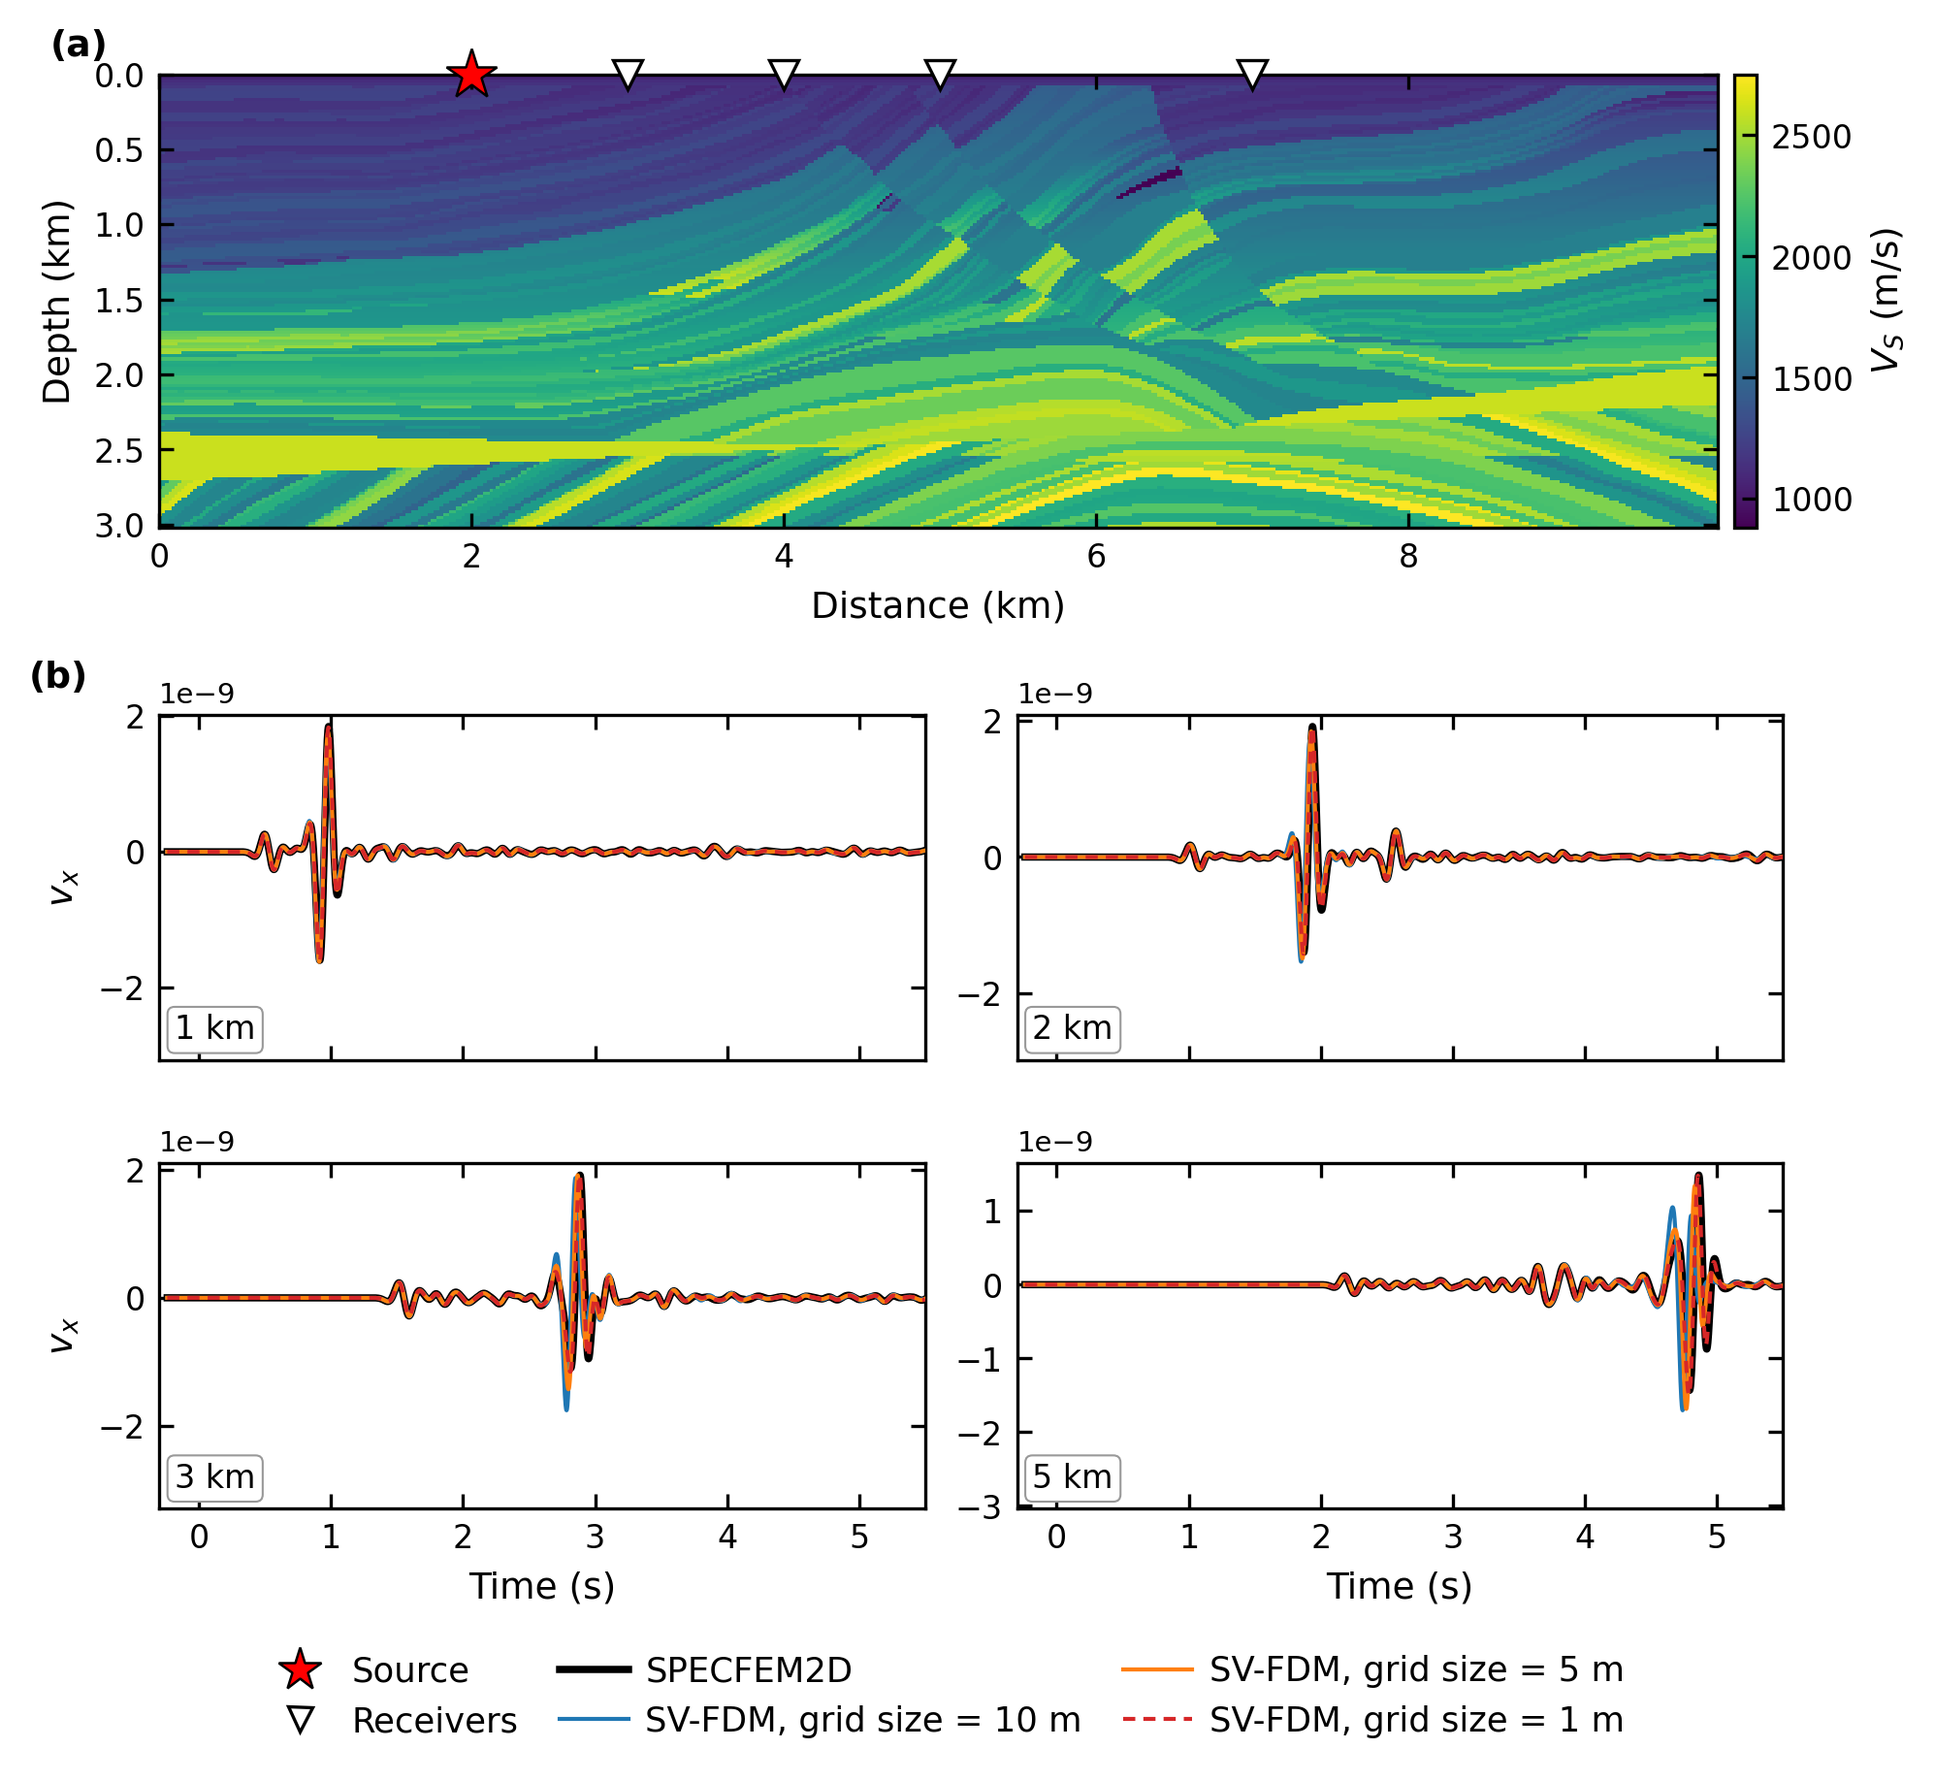
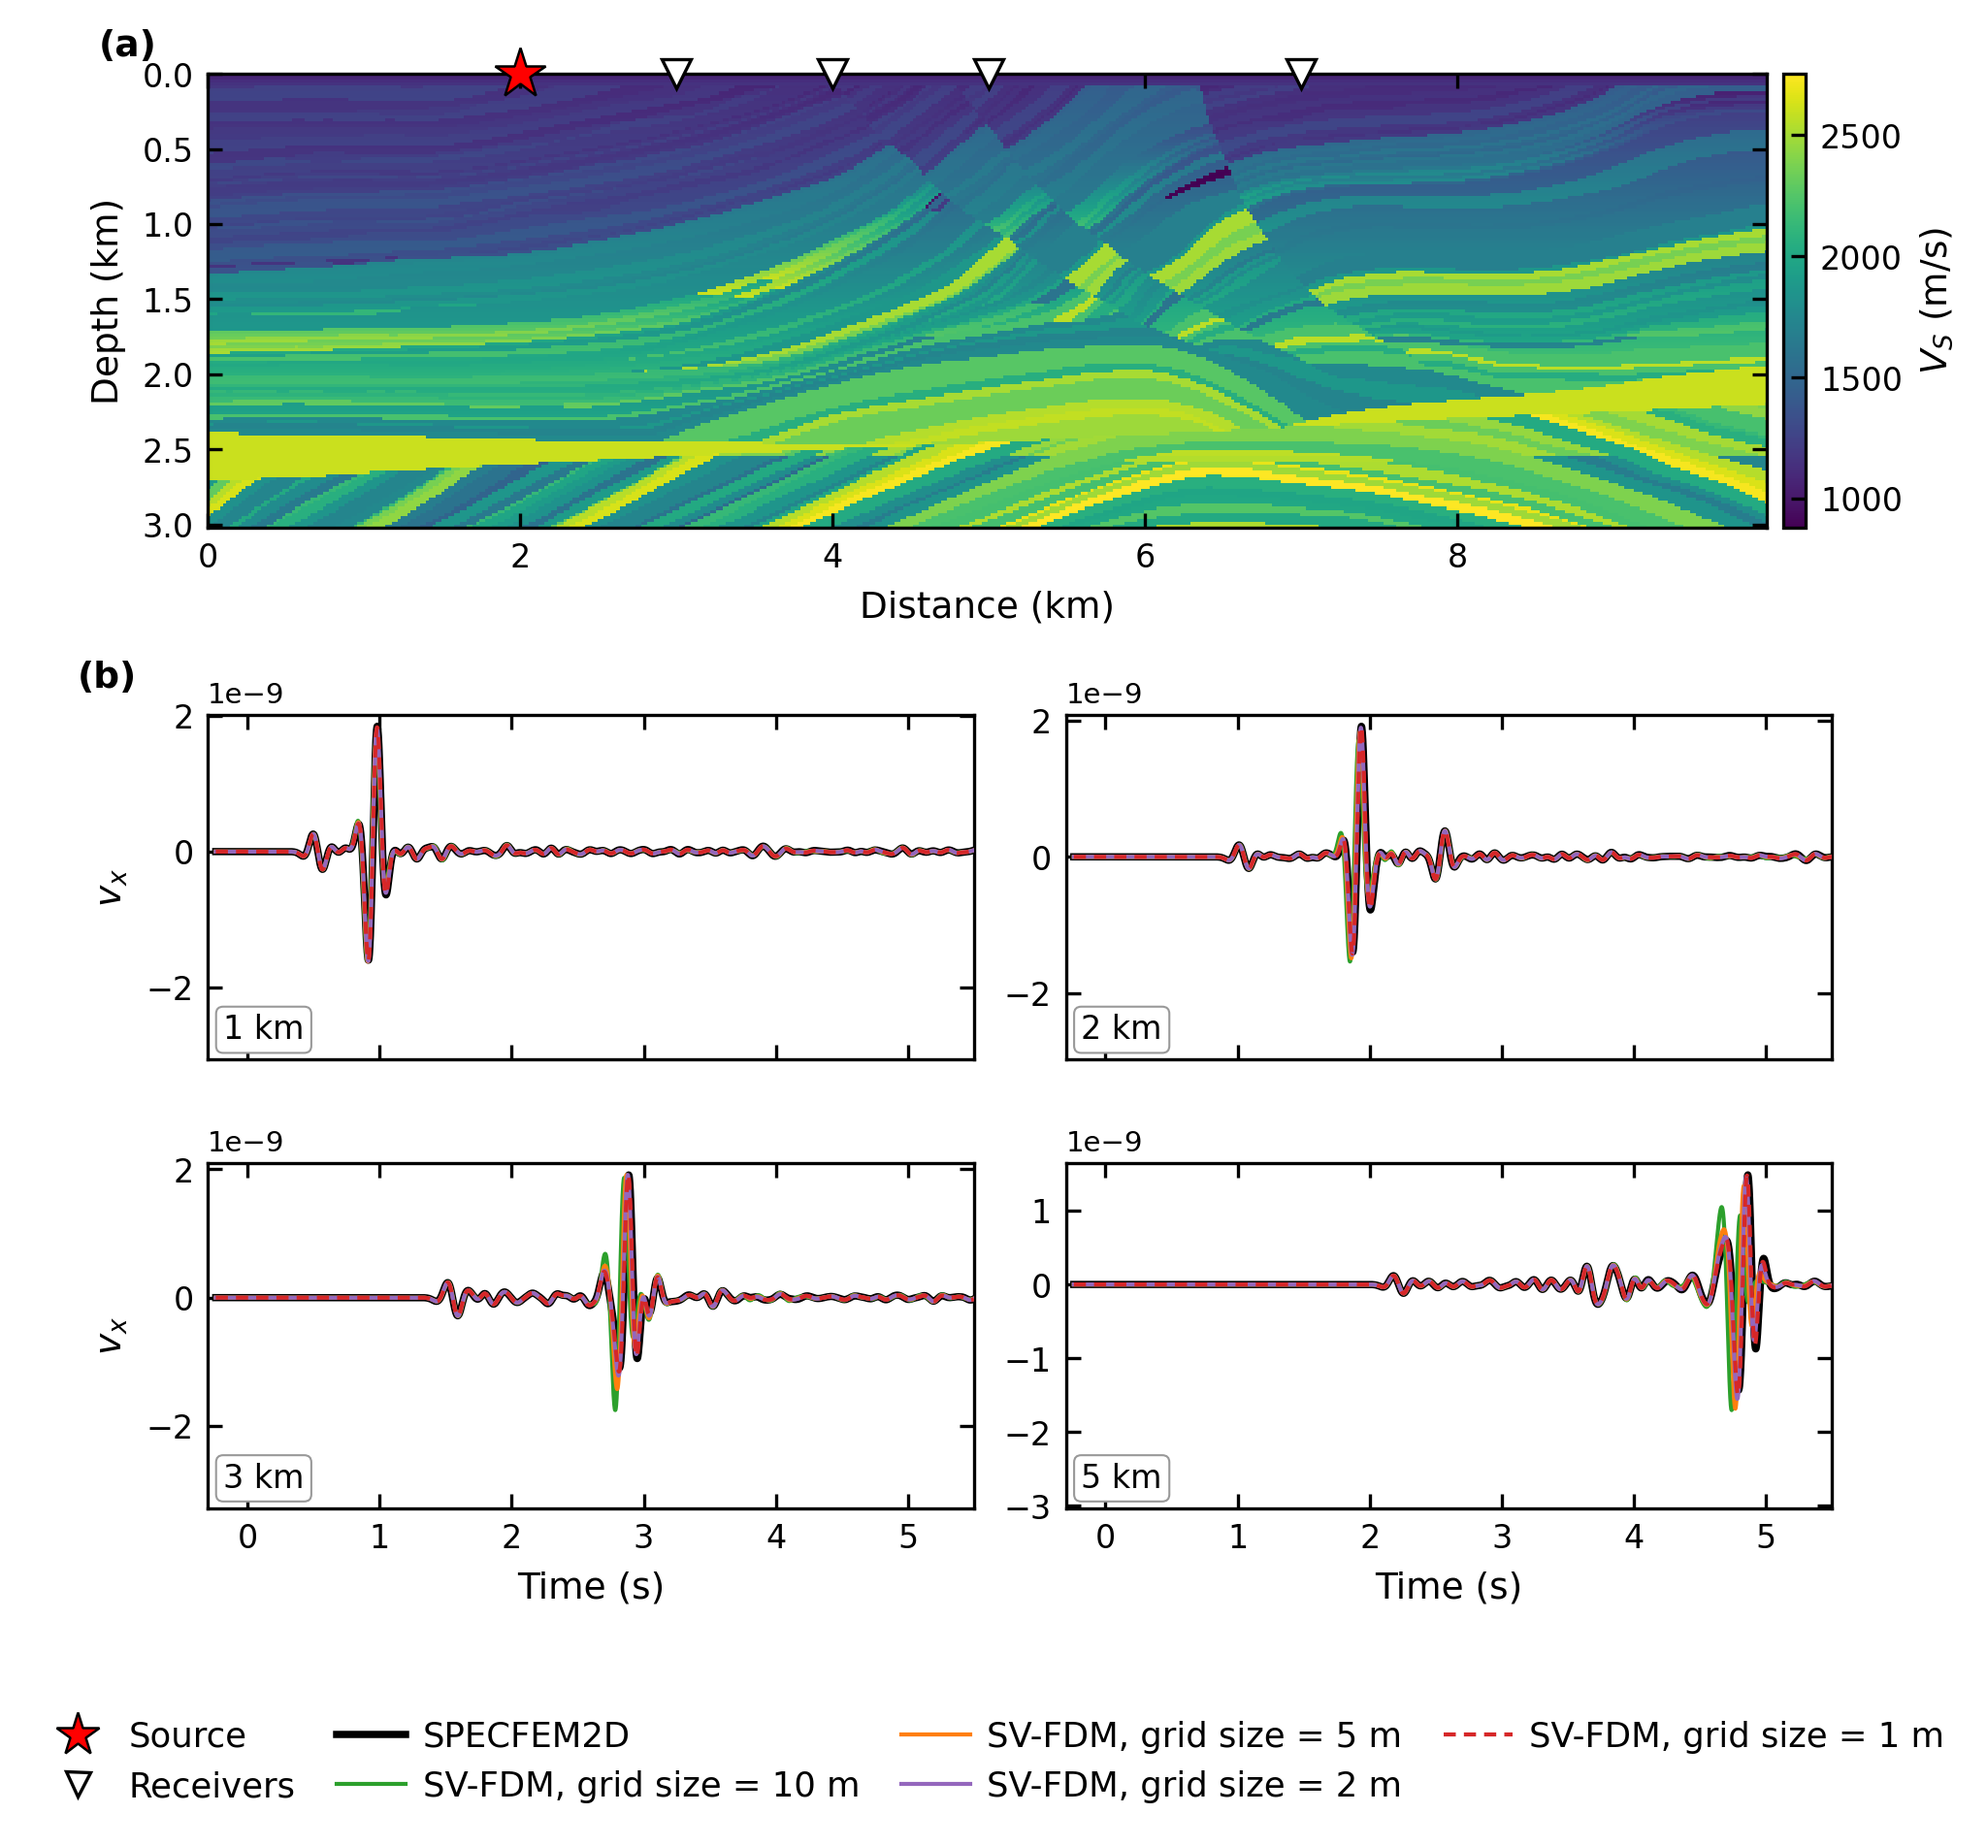
Grid convergence for the half-space; add 2 m grid to both convergence tests
- compare_homogeneous.py: convergence figure against Lamb and SPECFEM2D
  (grid size 10, 5, 2, 1 m), same layout as Marmousi
- common.py: shared grid list and line styles for the convergence figures;
  legend wraps onto two rows when it has many entries
- compare_marmousi.py: add the 2 m grid
- README: four validation cases

diff --git a/validation/compare_homogeneous.py b/validation/compare_homogeneous.py
@@ -12,8 +12,9 @@ common.py).
 Usage:
     CUDA_VISIBLE_DEVICES=0 python compare_homogeneous.py
 
-Writes results/homogeneous_{vz,vx}.png and prints relative RMS errors
-against the analytic solution.
+Writes results/homogeneous_{vz,vx}.png, the same comparison on coarser FD
+grids (CONV_DX) in results/homogeneous_convergence_{vz,vx}.png, and prints
+relative RMS errors against the analytic solution.
 
 The analytic Green's function comes from lamb_2dhalf_surface (Ki-Tae Kim,
 LGPL-3.0, https://github.com/ktkimit/lamb_2dhalf_surface). It is not
@@ -34,8 +35,8 @@ import sys
 
 import numpy as np
 from scipy.integrate import quad
-from common import (COMPONENTS, FC, FD_DX, HALF_SPACE, OUT_DIR, SPECFEM_SIGN,
-                    T_MAX, comparison_figure, fd_gather, load_reference, receiver_index, rel_rms)
+from common import (COMPONENTS, CONV_DX, FC, FD_DX, HALF_SPACE, OUT_DIR, SPECFEM_SIGN,
+                    T_MAX, comparison_figure, conv_style, fd_gather, load_reference, receiver_index, rel_rms)
 
 # ── analytic Lamb solution ──────────────────────────────────────────────────
 
@@ -166,9 +167,11 @@ def lamb_traces(green, fc, offsets, t):
 
 
 def collect(green):
-    """Common time axis and Lamb / SPECFEM / FD traces at OFFSETS."""
+    """Common time axis and Lamb / SPECFEM / FD traces at OFFSETS.
+
+    fd[dx] holds the SV-FDM traces for every grid in CONV_DX.
+    """
     ref = load_reference('homogeneous', FC)
-    fd = fd_gather('homogeneous', FC, ref)
     step = max(1, int(round(LAMB_DT / (ref['t'][1] - ref['t'][0]))))
     t = ref['t'][::step]
     idx = [receiver_index(ref, o) for o in OFFSETS]
@@ -177,7 +180,10 @@ def collect(green):
         lamb=lamb_traces(green, FC, OFFSETS, t),
         spec={c: np.array([SPECFEM_SIGN[c] * ref[c][::step, i] for i in idx])
               for c in COMPONENTS},
-        fd={c: np.array([fd[c][::step, i] for i in idx]) for c in COMPONENTS})
+        fd={dx: {c: np.array([g[c][::step, i] for i in idx])
+                 for c in COMPONENTS}
+            for dx, g in ((dx, fd_gather('homogeneous', FC, ref, dx))
+                          for dx in CONV_DX)})
 
 
 def main():
@@ -190,8 +196,10 @@ def main():
     print(f"{'comp':>4s} {'code':>8s} " +
           ' '.join(f'{o / 1000:>6g}km' for o in OFFSETS))
     for c in COMPONENTS:
-        for code in ('spec', 'fd'):
-            errs = [rel_rms(r[code][c][i], r['lamb'][c][i])
+        rows = [('spec', r['spec'][c])]
+        rows += [(f'fd {dx:g} m', r['fd'][dx][c]) for dx in CONV_DX]
+        for code, traces in rows:
+            errs = [rel_rms(traces[i], r['lamb'][c][i])
                     for i in range(len(OFFSETS))]
             print(f"{c:>4s} {code:>8s} " + ' '.join(f'{e:8.4f}' for e in errs))
 
@@ -201,9 +209,20 @@ def main():
             'homogeneous', r['src_x'], OFFSETS, r['t'],
             [('Analytic (Lamb)', r['lamb'][c], dict(color='k', lw=2.2)),
              ('SPECFEM2D', r['spec'][c], dict(color='tab:blue', lw=1.1)),
-             (f'SV-FDM, grid size = {FD_DX:g} m', r['fd'][c],
+             (f'SV-FDM, grid size = {FD_DX:g} m', r['fd'][FD_DX][c],
               dict(color='tab:red', lw=1.1, ls=(0, (3, 2))))],
             f'$v_{c[1]}$', path, T_MAX)
+        print(f"Saved {path}")
+
+    # convergence: the same comparison on coarser FD grids
+    for c in COMPONENTS:
+        curves = [('Analytic (Lamb)', r['lamb'][c], dict(color='k', lw=2.2)),
+                  ('SPECFEM2D', r['spec'][c], dict(color='tab:blue', lw=1.1))]
+        curves += [(f'SV-FDM, grid size = {dx:g} m', r['fd'][dx][c],
+                    conv_style(dx)) for dx in CONV_DX]
+        path = os.path.join(OUT_DIR, f'homogeneous_convergence_{c}.png')
+        comparison_figure('homogeneous', r['src_x'], OFFSETS, r['t'], curves,
+                          f'$v_{c[1]}$', path, T_MAX)
         print(f"Saved {path}")
 
 

diff --git a/validation/common.py b/validation/common.py
@@ -49,6 +49,18 @@ HALF_SPACE = dict(vp=2000.0, vs=1155.0, rho=2000.0)
 SPECFEM_SIGN = {'vz': 1.0, 'vx': -1.0}
 COMPONENTS = ('vz', 'vx')
 
+# grids of the convergence figures; the finest is FD_DX
+CONV_DX = [10.0, 5.0, 2.0, FD_DX]
+CONV_STYLE = {10.0: dict(color='tab:green', lw=1.0),
+              5.0: dict(color='tab:orange', lw=1.0),
+              2.0: dict(color='tab:purple', lw=1.0)}
+FINE_STYLE = dict(color='tab:red', lw=1.0, ls=(0, (3, 2)))
+
+
+def conv_style(dx):
+    return CONV_STYLE.get(dx, FINE_STYLE)
+
+
 T_MAX = 5.5                  # end of the plotted / compared record (s)
 
 PLOT_STYLE = {
@@ -217,8 +229,10 @@ def comparison_figure(model, src_x, offsets, t, curves, ylabel, path,
                       ls='none', label='Receivers')]
     handles += [Line2D([], [], label=label, **style)
                 for label, _, style in curves]
-    fig.legend(handles=handles, loc='lower center', ncol=len(handles) if len(handles) <= 5 else 3,
-               frameon=False, bbox_to_anchor=(0.5, -0.03),
+    ncol = len(handles) if len(handles) <= 5 else 4
+    rows = -(-len(handles) // ncol)
+    fig.legend(handles=handles, loc='lower center', ncol=ncol,
+               frameon=False, bbox_to_anchor=(0.5, -0.03 - 0.035 * (rows - 1)),
                columnspacing=1.2, handletextpad=0.5)
     fig.savefig(path, bbox_inches='tight')
     plt.close(fig)

diff --git a/validation/compare_marmousi.py b/validation/compare_marmousi.py
@@ -18,13 +18,10 @@ import os
 
 import numpy as np
 
-from common import (COMPONENTS, FC, FD_DX, SPECFEM_SIGN, OUT_DIR, T_MAX, comparison_figure, fd_gather,
+from common import (COMPONENTS, CONV_DX, FC, FD_DX, conv_style, SPECFEM_SIGN, OUT_DIR, T_MAX, comparison_figure, fd_gather,
                     load_reference, receiver_index, rel_rms)
 
 OFFSETS = [1000, 2000, 3000, 5000]
-CONV_DX = [10.0, 5.0, FD_DX]          # grids of the convergence figure
-CONV_STYLE = {10.0: dict(color='tab:blue', lw=1.0),
-              5.0: dict(color='tab:orange', lw=1.0)}
 MIN_OFFSET = 200.0       # receivers closer to the source are left out of the
                          # whole-gather metrics (near-field singularity)
 
@@ -77,8 +74,7 @@ def main():
     for c in COMPONENTS:
         curves = [('SPECFEM2D', ref[c][:, idx].T, dict(color='k', lw=1.8))]
         curves += [(f'SV-FDM, grid size = {dx:g} m', fds[dx][c][:, idx].T,
-                    CONV_STYLE.get(dx, dict(color='tab:red', lw=1.0,
-                                            ls=(0, (3, 2)))))
+                    conv_style(dx))
                    for dx in CONV_DX]
         path = os.path.join(OUT_DIR, f'marmousi_convergence_{c}.png')
         comparison_figure('marmousi', ref['src_x'], OFFSETS, ref['t'], curves,

diff --git a/README.md b/README.md
@@ -87,8 +87,9 @@ any of the traces.
 | Case | Model | References | SV-FDM grid size |
 | --- | --- | --- | --- |
 | 1 | Homogeneous half-space (Vp 2000 m/s, Vs 1155 m/s, ρ 2000 kg/m³) | Analytic Lamb solution, SPECFEM2D | 1 m |
-| 2 | Marmousi2 | SPECFEM2D | 1 m |
-| 3 | Marmousi2, grid convergence | SPECFEM2D | 10, 5 and 1 m |
+| 2 | Homogeneous half-space, grid convergence | Analytic Lamb solution, SPECFEM2D | 10, 5, 2 and 1 m |
+| 3 | Marmousi2 | SPECFEM2D | 1 m |
+| 4 | Marmousi2, grid convergence | SPECFEM2D | 10, 5, 2 and 1 m |
 
 SPECFEM2D uses 20 m spectral elements with 4th-order GLL points. SV-FDM
 uses 8th-order spatial stencils.
@@ -99,13 +100,19 @@ uses 8th-order spatial stencils.
 | --- | --- |
 | ![Homogeneous vz](validation/results/homogeneous_vz.png) | ![Homogeneous vx](validation/results/homogeneous_vx.png) |
 
-### Case 2: Marmousi
+### Case 2: grid convergence on the half-space
+
+| v<sub>z</sub> | v<sub>x</sub> |
+| --- | --- |
+| ![Convergence vz](validation/results/homogeneous_convergence_vz.png) | ![Convergence vx](validation/results/homogeneous_convergence_vx.png) |
+
+### Case 3: Marmousi
 
 | v<sub>z</sub> | v<sub>x</sub> |
 | --- | --- |
 | ![Marmousi vz](validation/results/marmousi_vz.png) | ![Marmousi vx](validation/results/marmousi_vx.png) |
 
-### Case 3: grid convergence on Marmousi
+### Case 4: grid convergence on Marmousi
 
 | v<sub>z</sub> | v<sub>x</sub> |
 | --- | --- |
@@ -117,7 +124,7 @@ uses 8th-order spatial stencils.
   8th order, the Rayleigh wave converges at a much lower rate. At 5 Hz, a
   1 m grid is needed for close agreement. At 5 m and 10 m, the surface
   wave shows clear numerical dispersion: it arrives early, and the error
-  grows with offset (Case 3).
+  grows with offset (Cases 2 and 4).
 * **Marmousi does not match SPECFEM2D as closely as the half-space
   does.** Even at 1 m, the SV-FDM and SPECFEM2D traces drift apart in
   phase and amplitude as the offset grows, with the largest difference on
@@ -137,8 +144,8 @@ comparisons run without a SPECFEM2D installation. A GPU is needed for the
 
 ```bash
 cd validation
-python compare_homogeneous.py     # Case 1
-python compare_marmousi.py        # Cases 2 and 3
+python compare_homogeneous.py     # Cases 1 and 2
+python compare_marmousi.py        # Cases 3 and 4
 ```
 
 The SPECFEM2D inputs for the Marmousi run are in
